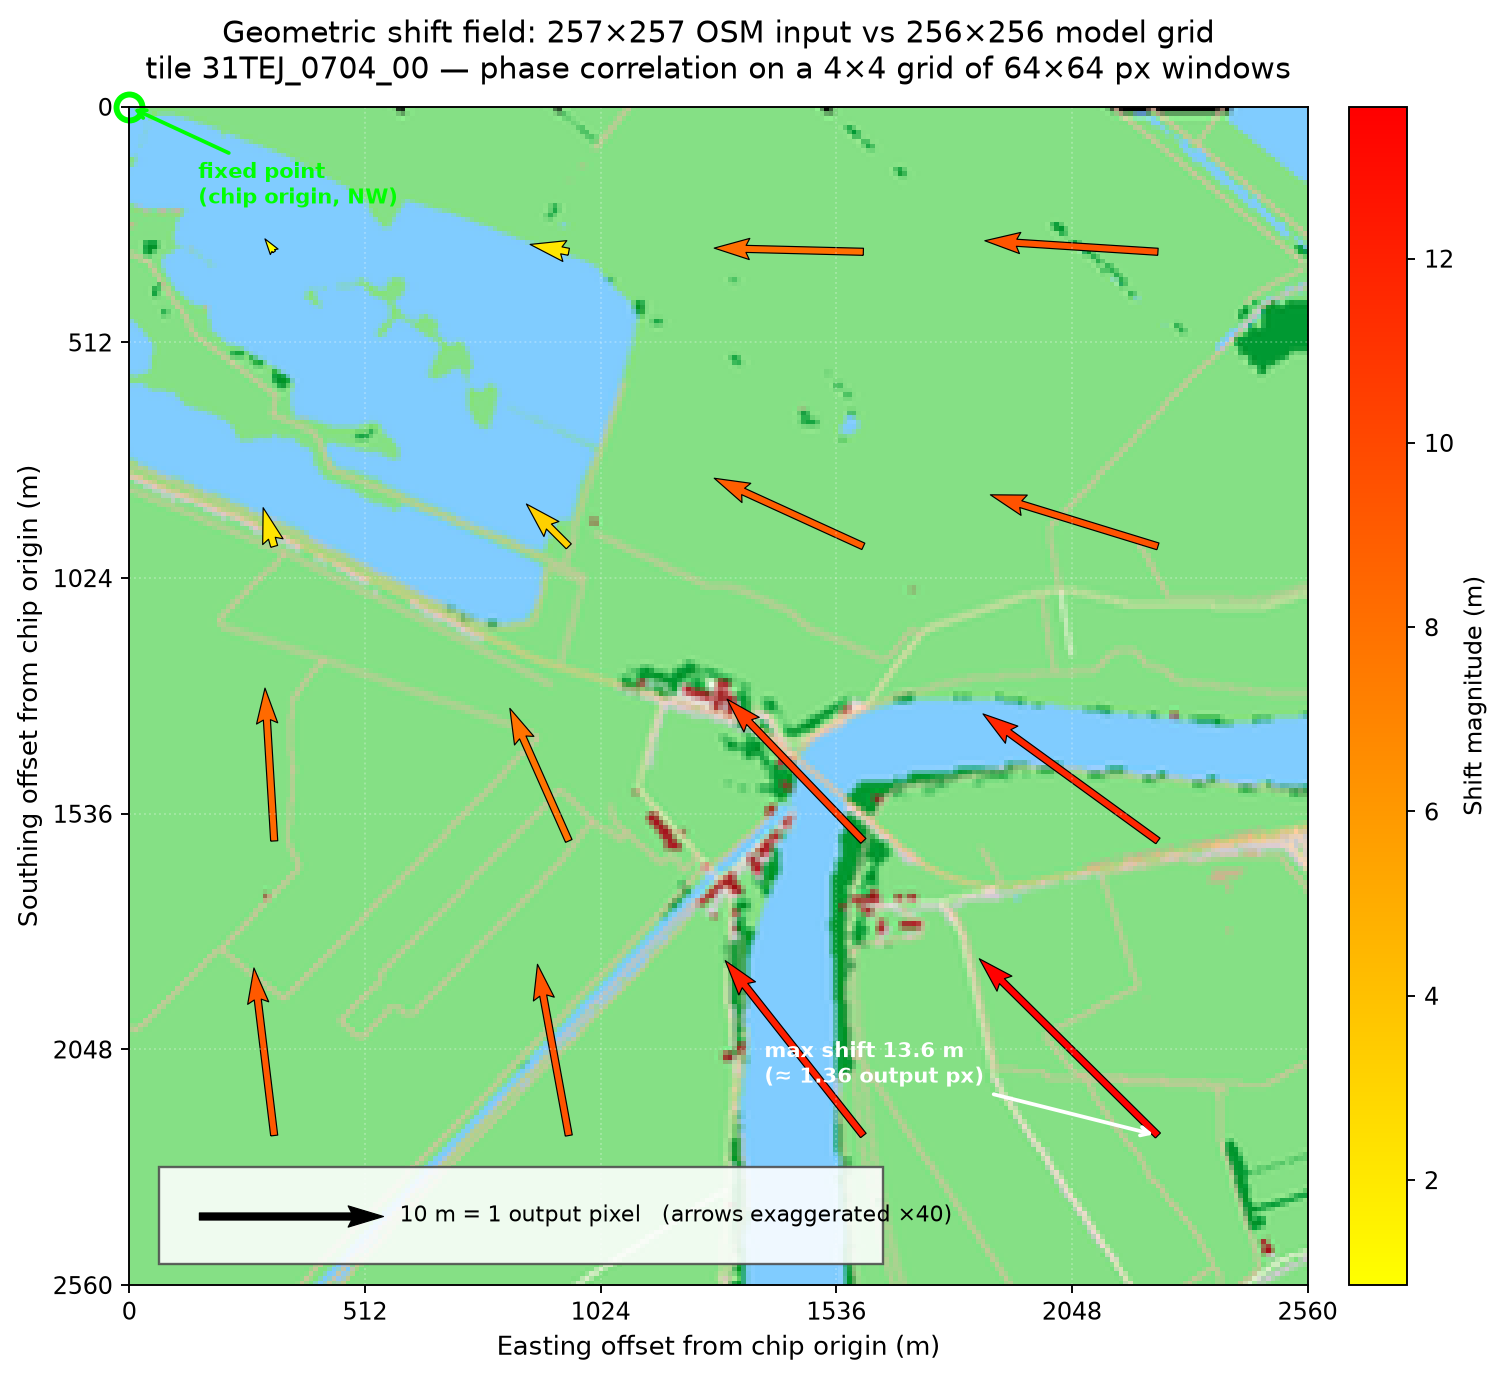
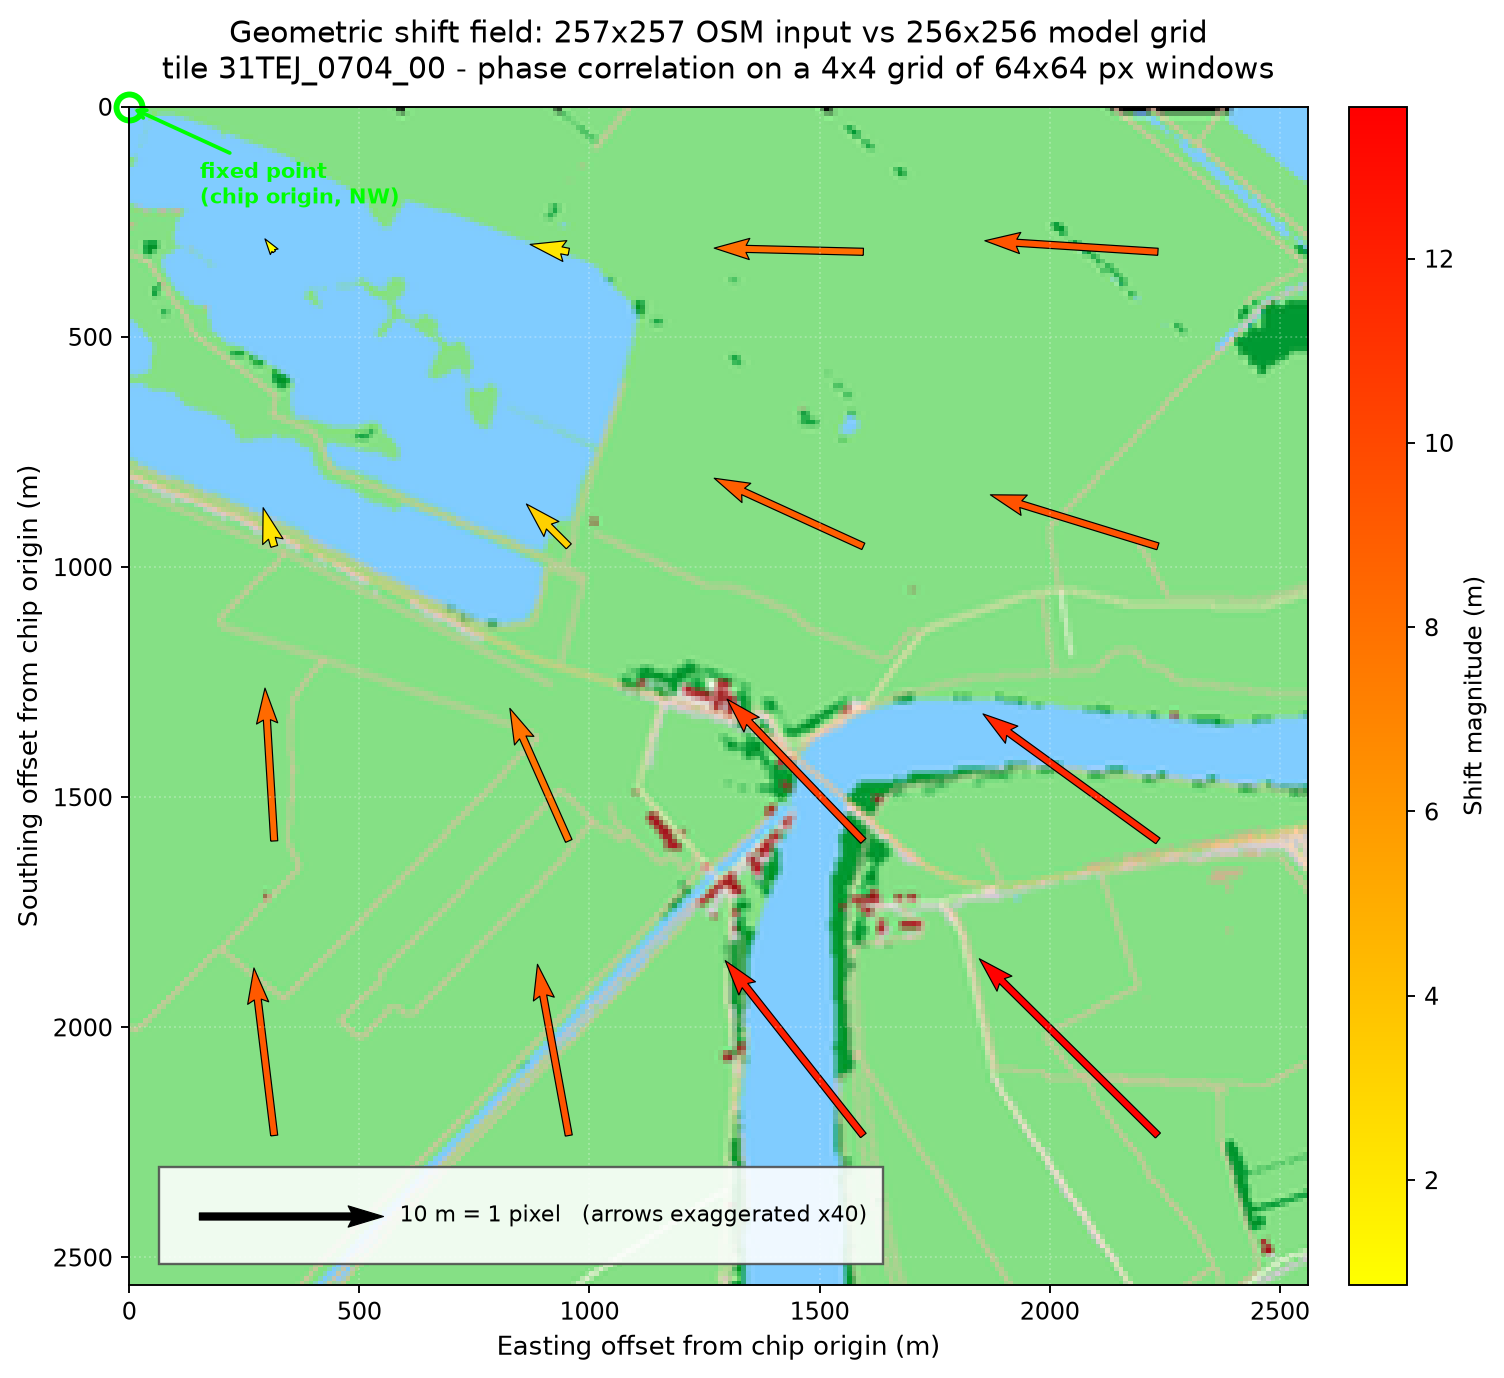
docs: answer section 8.1 from the training set, add network alignment measurement
Resolves the last material uncertainty and records two new findings. The 0.39%
verdict is unchanged.

Section 6 - measured, not inferred. Downloaded GenCP_HR_DB.zip (1.71 GB) and
measured all 11,416 rasters rather than a sample:
- 257x257 is UNIFORM: all 5,708 georeferenced chips, zero exceptions, at
  (10.0, 10.0) m across 5 UTM zones
- image_pairs are 514x257, i.e. exactly 2x257; width == 2*height holds for all
  5,708 pairs, so the A/B halves share dimensions exactly
- the right half is byte-identical to the georeferenced train/ raster
  (corr 1.0000, MAD 0.00) and is the OSM rendering; layout is [satellite | OSM]
This OVERTURNS the previous revision's indirect inference from the VHR demo's
256x256 chips: 257 is the project-wide HR convention, not a demo artefact. The
model was trained on the same 257-px chips, so the error is metadata-only.

Section 6.1 - a second, larger mismatch. train.py and train_options.py override
none of the size defaults, so training resizes 257->286 and random-crops 256,
while test_options.py alone sets load_size=crop_size. The model is shown content
11.7% coarser at inference than in training. Caveat recorded: no train_opt.txt
was released, so the authors' actual load_size is not recoverable.

Section 11 - the assumption that a U-Net preserves alignment, measured at last.
Phase correlation FAILS cross-modally (RMS 2.5-14.8 px, max 64 px) - reported
with the numbers rather than silently swapped out. Bounded-search NCC on Sobel
[…]

diff --git a/tubitak/docs/geometry-finding.md b/tubitak/docs/geometry-finding.md
@@ -3,6 +3,10 @@
 **Status:** investigation only. No pipeline code was modified, no outputs were regenerated.
 **Date:** 2026-08-18
 **Verdict:** the 0.39 % scale error is **real, and exactly as predicted** — not larger, not smaller.
+The HR training set has since been measured (§6): 257x257 is the project-wide convention, not a
+demo artefact, which resolves the last material uncertainty and leaves the verdict unchanged.
+Two further findings are recorded below: a train/inference scale mismatch (§6.1) and the
+network's own input->output alignment, measured rather than assumed (§11).
 
 ---
 
@@ -242,26 +246,75 @@ roughly 7 m; worst case 14.1 m.
 
 ---
 
-## 6. Is 257 intentional? (training-data check)
+## 6. Is 257 intentional? Answered by measuring the training set
 
-**The HR training set is not available locally** — only the 630 test rasters (121 MB) and the
-model weights were downloaded. It was **not** downloaded for this investigation, per instruction.
+`GenCP_HR_DB.zip` (1.71 GB, 2.55 GB unpacked, 11,416 rasters) was downloaded from Zenodo and
+measured in full — not sampled.
 
-Indirect evidence available locally:
+| group | files | dimensions | pixel size | CRS |
+|---|---|---|---|---|
+| `GenCP_HR_DB/train/` | 5,131 | **257x257 (100.0 %)** | (10.0, 10.0) | 5 UTM zones (EPSG:32630-32634) |
+| `GenCP_HR_DB/test/` | 577 | **257x257 (100.0 %)** | (10.0, 10.0) | 5 UTM zones |
+| `GenCP_HR_DB/image_pairs/train/` | 5,131 | **514x257 (100.0 %)** | (1.0, 1.0) | none |
+| `GenCP_HR_DB/image_pairs/test/` | 577 | **514x257 (100.0 %)** | (1.0, 1.0) | none |
 
-| dataset | present locally | chip size |
-|---|---|---|
-| HR demo test rasters | yes, 630 files | **257×257** (uniform) |
-| VHR demo `images/` | yes, 21 files | **256×256** |
-| VHR demo `masks/` | yes, 21 files | **256×256** |
-| HR **training** pairs | **no** | unknown |
+**257 is uniform, not mixed and not absent.** Every one of the 5,708 georeferenced rasters is
+257x257 at exactly (10.0, 10.0) m. There are zero exceptions in the entire corpus.
 
-The VHR branch of the same project uses 256×256. That is suggestive that 257 is an artefact
-of how *this* HR demo dataset was rasterised (e.g. an inclusive-bounds off-by-one when
-cutting tiles) rather than a deliberate convention — but it is indirect. **The decisive
-question, whether the HR training pairs were also 257 px, cannot be answered locally.**
+**The paired A/B images share dimensions exactly.** `514 = 2 x 257`, and the check
+`width == 2 * height` holds for all 5,708 pairs without exception. `AlignedDataset` splits at
+`w/2`, giving A and B of 257x257 each.
 
----
+**Which half is which** (measured, not assumed): the right half is byte-identical to the
+same-named georeferenced raster in `train/` (corr 1.0000, MAD 0.00) and carries the signature of
+a categorical rendering — its top 5 colours cover 54.3 % of pixels, comparable to the demo OSM
+input's 71.7 %. The left half is continuous imagery: top 5 colours cover 1.2 %, with 51,960
+distinct colours in 66,049 pixels. So the layout is **[satellite | OSM]**, and producing satellite
+imagery from OSM with this corpus requires `--direction BtoA`. The `image_pairs` files carry no
+CRS and a (1.0, 1.0) pixel size — they are plain images for pix2pix, with georeferencing held
+separately in `train/` and `test/`.
+
+**This overturns the previous revision's indirect inference.** That reasoning used the VHR demo's
+256x256 chips to suggest 257 might be a rasterisation artefact of the HR demo dataset. It is not:
+257x257 at 10 m is the convention across the whole HR corpus, training and test alike. The
+verdict in §5 is unaffected — the scale error follows from 257-px content on a 256-px grid with a
+10 m transform, regardless of why 257 was chosen.
+
+### 6.1 Training-time geometry — a second, larger mismatch
+
+Read from the executed code path, as for `test.py`:
+
+- `options/base_options.py` defaults: `preprocess=resize_and_crop`, **`load_size=286`**, `crop_size=256`,
+  `no_flip` is `store_true` so it defaults to **False** (flipping enabled).
+- `options/train_options.py` overrides none of them.
+- `train.py` overrides none of them (unlike `test.py`, which overrides `no_flip`, `serial_batches`
+  and `num_threads` after the options file is written).
+- Only `options/test_options.py` contains
+  `parser.set_defaults(load_size=parser.get_default('crop_size'))`, commented
+  *"To avoid cropping, the load_size should be the same as crop_size"*. **That override is why
+  inference ran at load_size 256 and is absent at training time.**
+
+So under released defaults, training applies to each 257x257 half: resize to 286x286, then a
+random 256x256 crop at a position shared by A and B (`get_params` is computed once and passed to
+both transforms), plus a shared random flip. A and B therefore stay mutually aligned — but the
+scale differs from inference:
+
+| stage | resize applied | GSD of content the model sees | ground extent of the 256-px grid |
+|---|---|---|---|
+| training | 257 -> 286, then random 256 crop | 10 x 257/286 = **8.986 m** | 2300.5 m |
+| inference | 257 -> 256, no crop | 10 x 257/256 = **10.039 m** | 2570 m |
+
+Ratio 286/256 = **1.1172**: at inference the network is shown content **11.7 % coarser** than
+anything it saw during training. Note this is the same 286/256 factor as the "H2' counterfactual"
+dismissed in §3.2 — dismissed correctly for *inference*, but it is what the code does at
+*training*.
+
+**Caveat, and it is a real one.** This describes the released code under its default options. The
+authors' actual training command was not published: `GenCP_HR_Model_Weights.zip` contains only two
+`latest_net_G.pth` files and no `train_opt.txt`, so the `load_size` actually used is not
+recoverable from the released artefacts. If they passed `--load_size 256`, this mismatch does not
+exist. **This is now the principal open question, and it is separate from the georeferencing
+error, which stands either way.**
 
 ## 7. Upstream awareness
 
@@ -283,24 +336,28 @@ approximation.
 
 ## 8. What remains uncertain
 
-1. **Whether the training data shared this geometry.** This is the one thing that changes the
-   *interpretation*. If training pairs were also 257 rasters resampled to 256, the model
-   learned on this geometry, the generated content genuinely corresponds to the full 2570 m
-   extent, and the problem is **metadata-only** — the pixels are right, the transform is wrong.
-   If training chips were natively 256, the situation is more complicated. Resolving this
-   requires the Zenodo HR training set (~1.7 GB), deliberately not downloaded.
-2. **Estimator bias.** Validated RMS 0.076 px, and it under-reads small shifts. This affects
-   the absolute slope by ~7 % but not the conclusion, because the control absorbs it.
-3. **Sub-pixel behaviour of BICUBIC resampling** on hard-edged categorical OSM rasters may
-   introduce edge-dependent bias not modelled here. It does not affect the scale factor,
-   which is fixed by the 257→256 grid ratio, not by the kernel.
-4. **Whether 10.0390625 m or 10.0 m is the "intended" GSD** is a project decision, not a
+1. **Training-data geometry — RESOLVED.** Measured in §6: 257x257 uniformly, across the entire
+   corpus. The model was trained on the same 257-px chips the demo uses, so the generated content
+   does correspond to the full 2570 m extent and the problem is **metadata-only** — the pixels are
+   right, the transform is wrong. This was previously the one uncertainty that could change the
+   interpretation; it no longer can.
+2. **The authors' actual training invocation — now the principal unknown.** Under released
+   defaults, training resizes 257 -> 286 and random-crops 256, an 11.7 % scale difference from
+   inference (§6.1). No `train_opt.txt` was released, so whether they overrode `load_size` cannot
+   be determined from the published artefacts. This affects expected output *quality*, not the
+   georeferencing arithmetic.
+3. **Estimator bias.** Validated RMS 0.076 px; it under-reads small shifts. Affects the absolute
+   slope by ~7 % but not the conclusion, because the control absorbs it identically (§4.3).
+4. **Network input->output alignment is bounded, not resolved.** Measured in §11: no misalignment
+   detected, but only to ~0.9 px (~9 m). That bound is the same order as the scale error itself,
+   so this method cannot certify sub-pixel alignment at the precision KARIOS needs.
+5. **Sub-pixel behaviour of BICUBIC resampling** on hard-edged categorical rasters may introduce
+   edge-dependent bias not modelled here. It does not affect the scale factor, which is fixed by
+   the 257->256 grid ratio, not by the kernel.
+6. **Whether 10.0390625 m or 10.0 m is the "intended" GSD** is a project decision, not a
    measurement. §5 quantifies the discrepancy; it does not adjudicate which is correct.
-5. **KARIOS interaction.** KARIOS may itself fit and report a scale/shift term. Whether this
-   ramp should be subtracted beforehand or left in and interpreted is a validation-design
-   choice, not settled here.
-
----
+7. **KARIOS interaction.** KARIOS may itself fit and report a scale/shift term. Whether this ramp
+   should be subtracted beforehand or left in and interpreted is a validation-design choice.
 
 ## 9. Options (proposals only — nothing implemented)
 
@@ -358,8 +415,161 @@ Open an issue on `telespazio-tim/GenCP` describing the 257/256 transform mismatc
 
 ## 10. Reproducing these measurements
 
-The analysis was run from throwaway scripts in a scratch directory and is **not** committed,
-per instruction (only this document and its figure are). The method is fully specified above:
-§2 gives the estimator and its validation protocol, §3.2 the hypothesis reconstructions,
-§3.3 the 4×4 windowing scheme and the control construction. No pipeline file was modified and
-no output was regenerated at any point.
+The analysis code is committed under `tubitak/scripts/` — the measurements below regenerate from
+a clean checkout. The estimator is also intended for reuse during KARIOS validation.
+
+| script | purpose |
+|---|---|
+| `shift_estimator.py` | phase-correlation (same-modality) and NCC (cross-modal) estimators, plus the validation harness of §2 as a runnable self-test |
+| `hypothesis_test.py` | the H1/H2/H2'/H3 reconstruction comparison of §3.2 |
+| `shift_field.py` | the 4x4 shift-field measurement of §3.3 and the quiver figure; takes an arbitrary raster pair as arguments |
+| `network_alignment.py` | the input->output alignment measurement of §11, with its own cross-modal validation |
+
+```bash
+conda activate gencp
+
+# validate the estimator before trusting anything it produces
+python tubitak/scripts/shift_estimator.py --self-test
+
+# section 3.2
+python tubitak/scripts/hypothesis_test.py --tiles 8
+
+# section 3.3 + the figure
+python tubitak/scripts/shift_field.py \
+  GenCP_HR_demo/data/dataset/test/31TEJ_0704_00.tif \
+  GenCP_HR_demo/data/fake_images/genCP_HR_RGB_model/test_latest/images/31TEJ_0704_00_real.png \
+  --pixel-size 10 --figure tubitak/docs/figures/geometric-shift-field.png
+
+# section 11
+python tubitak/scripts/network_alignment.py --tiles 6 --mode gradient
+```
+
+The training set (§6) is not committed: `GenCP_HR_DB.zip` is 1.71 GB and lives in
+`tubitak/data/`, which is gitignored. Re-download from
+<https://zenodo.org/records/15044428>.
+
+No pipeline file was modified and no output was regenerated at any point in this investigation.
+
+
+---
+
+## 11. Does the network preserve spatial alignment? (input -> output)
+
+### 11.1 Why this needed measuring
+
+Every measurement in §3 compares `_real.png` — the network's **input** — against the source
+raster. The georeferenced GeoTIFFs contain `_fake` — the network's **output**. The bridge between
+them, *"a U-Net preserves pixel alignment between input and output"*, is true by architecture but
+had never been measured here. It was an assumption sitting underneath every number in this
+document. Any misalignment the network introduces would add to the KARIOS error budget and would
+be confounded with the scale ramp of §5.
+
+`_real.png` and `_fake.png` are both 256x256 on the same grid, so any shift between them is
+attributable to the network alone.
+
+### 11.2 Representation: why gradient magnitude
+
+The two images are different modalities: categorical OSM colours versus continuous satellite
+texture. A green OSM polygon and the field it generates share no grey level, so raw intensities
+are essentially uncorrelated. What they do share is **edge position** — roads, field boundaries,
+water margins sit in the same places in both. The images were therefore correlated on **Sobel
+gradient magnitude of a lightly smoothed image** (sigma = 1.0). Raw intensity was measured too, and
+is reported below so the choice can be checked rather than taken on trust.
+
+### 11.3 Validation first — and the first two methods failed
+
+Following the same discipline as §2: an estimator that cannot recover a *known* displacement
+cannot be trusted with an unknown one. `_fake` was deliberately displaced by known amounts and the
+estimator had to recover them, measured as the change relative to the (unknown) baseline offset so
+that the baseline could not contaminate the test.
+
+**Phase correlation — the §2 estimator — fails outright across modalities:**
+
+| estimator | representation | window | RMS error | max error | usable? |
+|---|---|---|---|---|---|
+| phase correlation | gradient | 256 | 2.506 | 8.540 | no |
+| phase correlation | gradient | 128 | 9.050 | 37.980 | no |
+| phase correlation | gradient | 64 | 14.772 | 64.040 | no |
+| phase correlation | intensity | 256 | 8.912 | 40.820 | no |
+| phase correlation | intensity | 128 | 5.432 | 29.260 | no |
+| phase correlation | intensity | 64 | 9.222 | 62.520 | no |
+
+Errors of 40-64 px on a 256-px chip mean the correlation peak is essentially random. The cause is
+the whitening step: phase correlation normalises away magnitude, which sharpens the peak for
+same-modality pairs (RMS 0.076 px in §2) but destroys robustness when the two images do not share
+intensity structure. **This is not a small degradation; it is total failure**, and it is why the
+§2 estimator could not simply be reused.
+
+**Normalised cross-correlation (no whitening), bounded search +/-8 px, is far better but still not
+sub-pixel per window:**
+
+| estimator | representation | window | RMS error | max error |
+|---|---|---|---|---|
+| NCC | gradient | 128 | 0.830 | 6.024 |
+| NCC | gradient | 64 | 1.127 | 4.159 |
+| NCC | intensity | 64 | 0.847 | 3.609 |
+| NCC | intensity | 256 | 5.928 | 33.500 |
+
+Individual 64-px windows remain unreliable. Many saturate against the +/-8 px search bound, which
+is visible in the measurement below as per-window magnitudes near 11 px (= sqrt(8^2+8^2)).
+
+**What is reliable is the pooled statistic.** Taking the median across the 16 windows of a tile
+before comparing to the injected shift:
+
+```
+n=15   median |err| = 0.209   RMS = 0.517   p90 = 0.869   max = 1.559  px
+```
+
+So the method is **usable as a bound, not as a sub-pixel measurement**. Its resolution limit is
+~0.87 px: a systematic offset below that cannot be distinguished from estimator noise, while one
+above it would be detected.
+
+### 11.4 Measurement
+
+NCC on gradient magnitude, 4x4 grid of 64x64 windows, 6 tiles, confidence floor 1.2 (calibrated to
+NCC's own scale — its peaks sit at a median confidence of 2.3 against phase correlation's 10.3, so
+the §2 threshold of 8 would have rejected every window).
+
+| tile | usable windows | median dy | median dx | std dy | std dx | max abs |
+|---|---|---|---|---|---|---|
+| 31TEJ_0451_00 | 15/16 | −0.382 | −0.137 | 2.210 | 2.962 | 9.146 |
+| 31TEJ_0691_00 | 11/16 | −1.727 | +0.602 | 3.726 | 4.340 | 9.185 |
+| 31TEJ_0699_00 | 14/16 | +0.038 | −0.455 | 4.336 | 4.419 | 10.901 |
+| 31TEJ_0700_00 | 15/16 | +1.271 | +0.770 | 3.760 | 3.273 | 8.106 |
+| 31TEJ_0704_00 | 14/16 | −0.858 | +0.606 | 4.001 | 3.706 | 9.347 |
+| 31TEJ_0706_00 | 15/16 | −1.176 | −0.970 | 3.706 | 3.784 | 9.750 |
+| **POOLED** | **84** | **−0.281** | **−0.068** | 3.759 | 3.804 | 10.901 |
+
+Pooled median offset: **dy −0.281 px, dx −0.068 px** (−2.8 m, −0.7 m).
+Per-window scatter: ~3.8 px (1 sigma) — large, and consistent with the validation finding that
+individual windows are not trustworthy.
+
+As an independent check on whether the pooled median means anything, its standard error is
+approximately 1.253 x sigma / sqrt(n) = 1.253 x 3.78 / sqrt(84) = **0.52 px**, which agrees with the
+0.87 px resolution limit obtained from injected shifts. Two different routes to the same
+uncertainty.
+
+### 11.5 Verdict: holds, within a bound that is not tight enough
+
+**The alignment assumption HOLDS at the precision available, and sub-pixel alignment is
+UNRESOLVABLE by this method.**
+
+- No systematic input->output displacement was detected. The pooled median (0.28 px) is below both
+  the validated resolution limit (0.87 px) and the standard error of the median (0.52 px), so it
+  is not distinguishable from zero.
+- The shift field shows **no structure** — no ramp, no rotation, no consistent direction across
+  tiles; per-tile medians scatter in sign (−1.73 to +1.27 px in dy). This is what noise looks
+  like, not a systematic effect.
+- Upper bound: any systematic misalignment the network introduces is **smaller than ~0.9 px
+  (~9 m)**.
+
+**The important caveat, stated plainly:** that ~9 m bound is the *same order of magnitude* as the
+scale error this document is about (0 m at the NW corner rising to 14.1 m at the SE corner). So
+this measurement is strong enough to exclude a gross misalignment — a whole-pixel or multi-pixel
+offset would have been detected — but **not** strong enough to certify that the network is aligned
+at the precision KARIOS is trying to measure. The architectural argument remains the stronger
+evidence at sub-pixel level; this measurement bounds it rather than replacing it.
+
+A tighter measurement would need a genuinely cross-modal similarity metric (mutual information, or
+a learned descriptor) rather than gradient correlation, or a controlled test on synthetic pairs
+where the true alignment is known by construction. Neither was attempted here.
